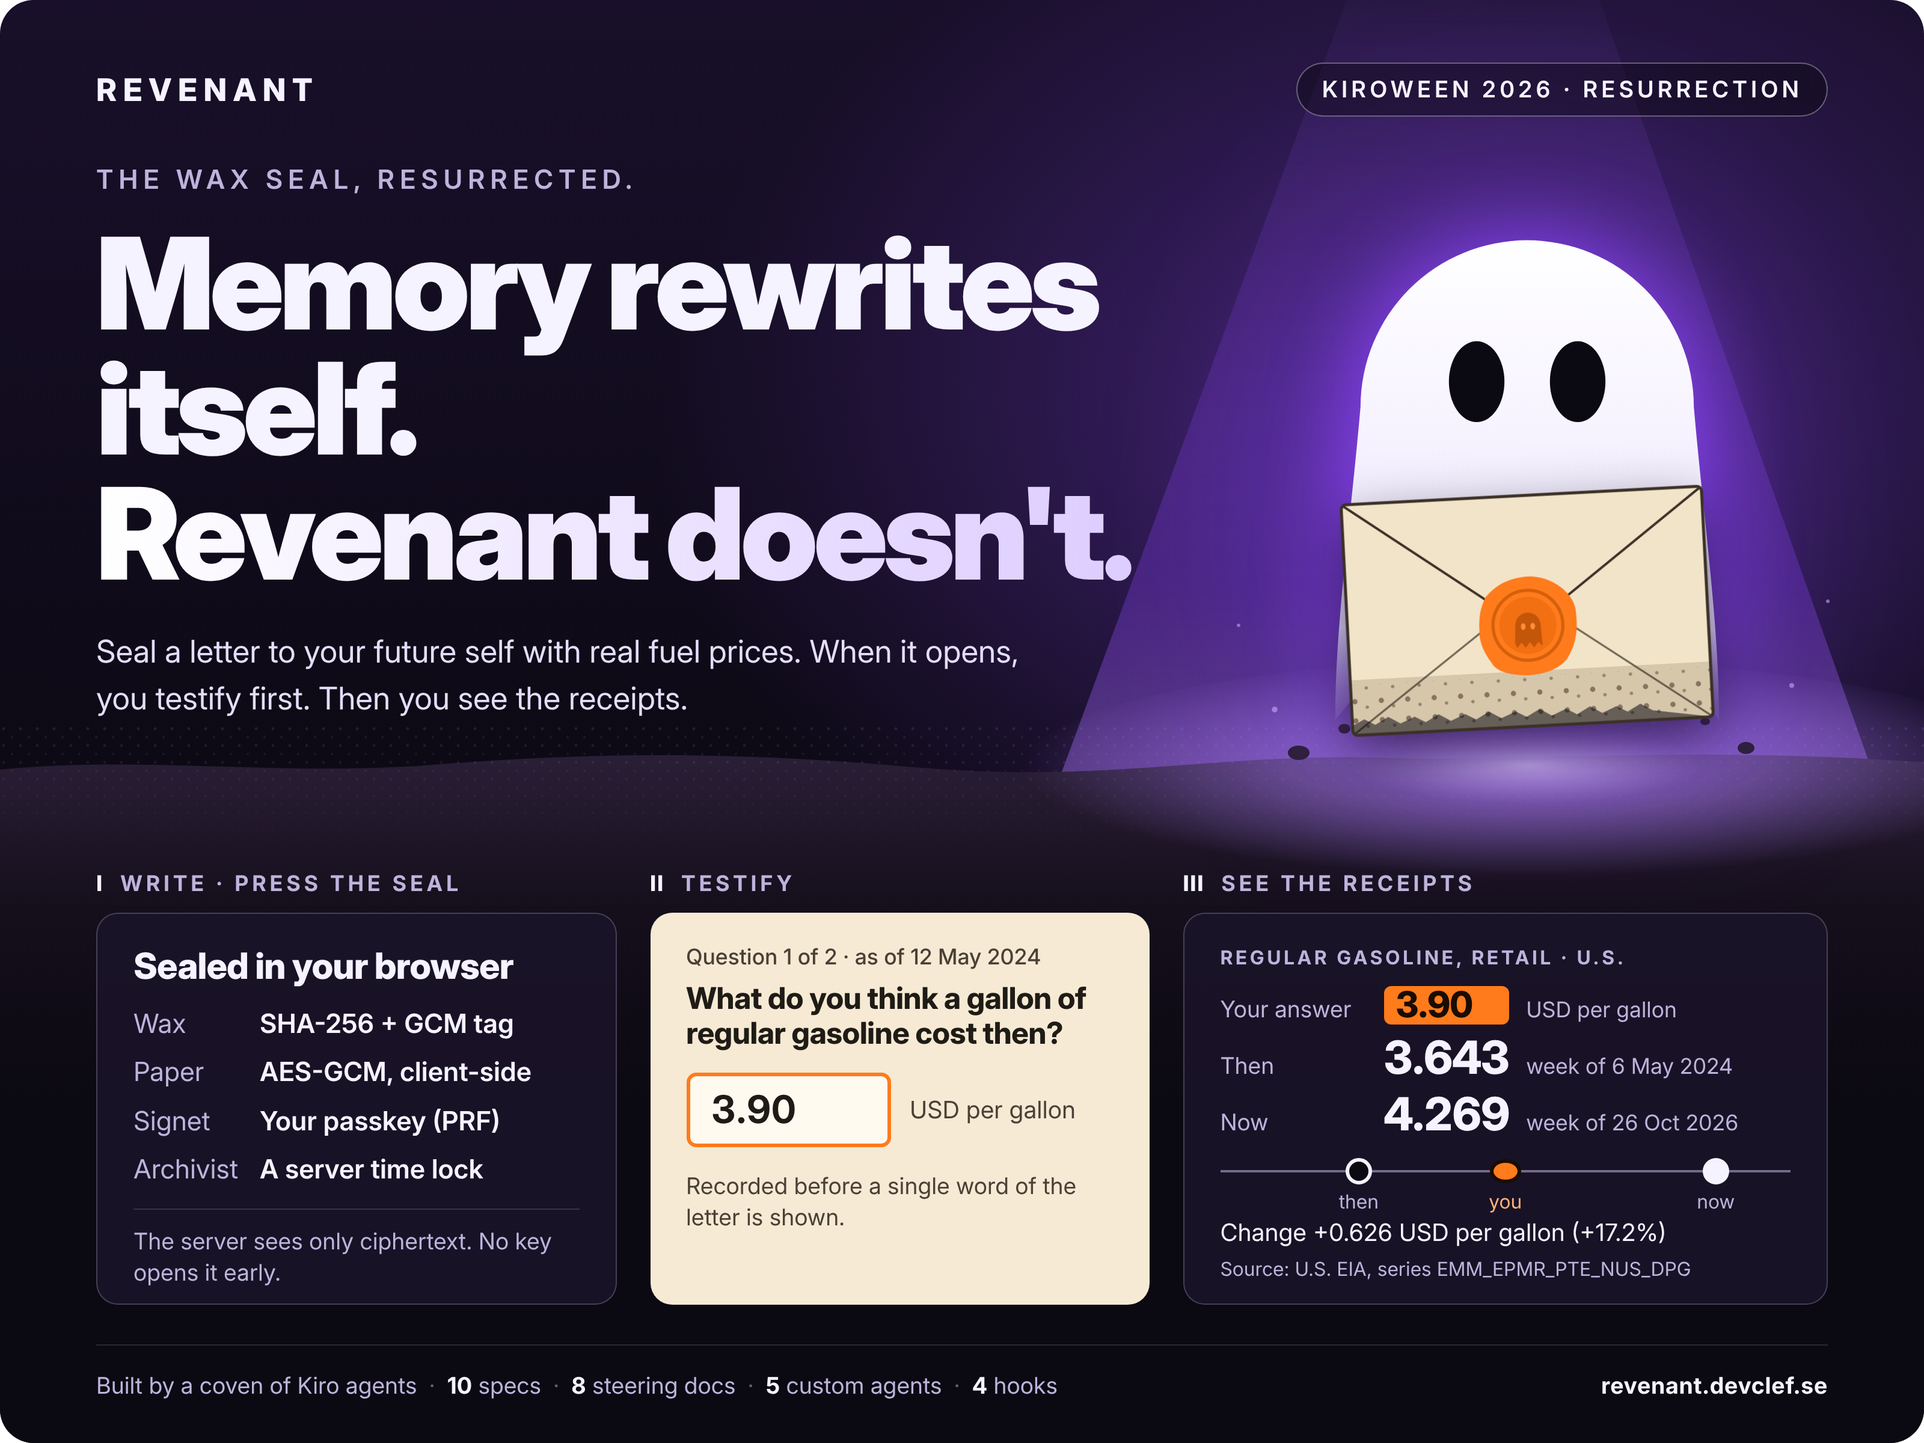
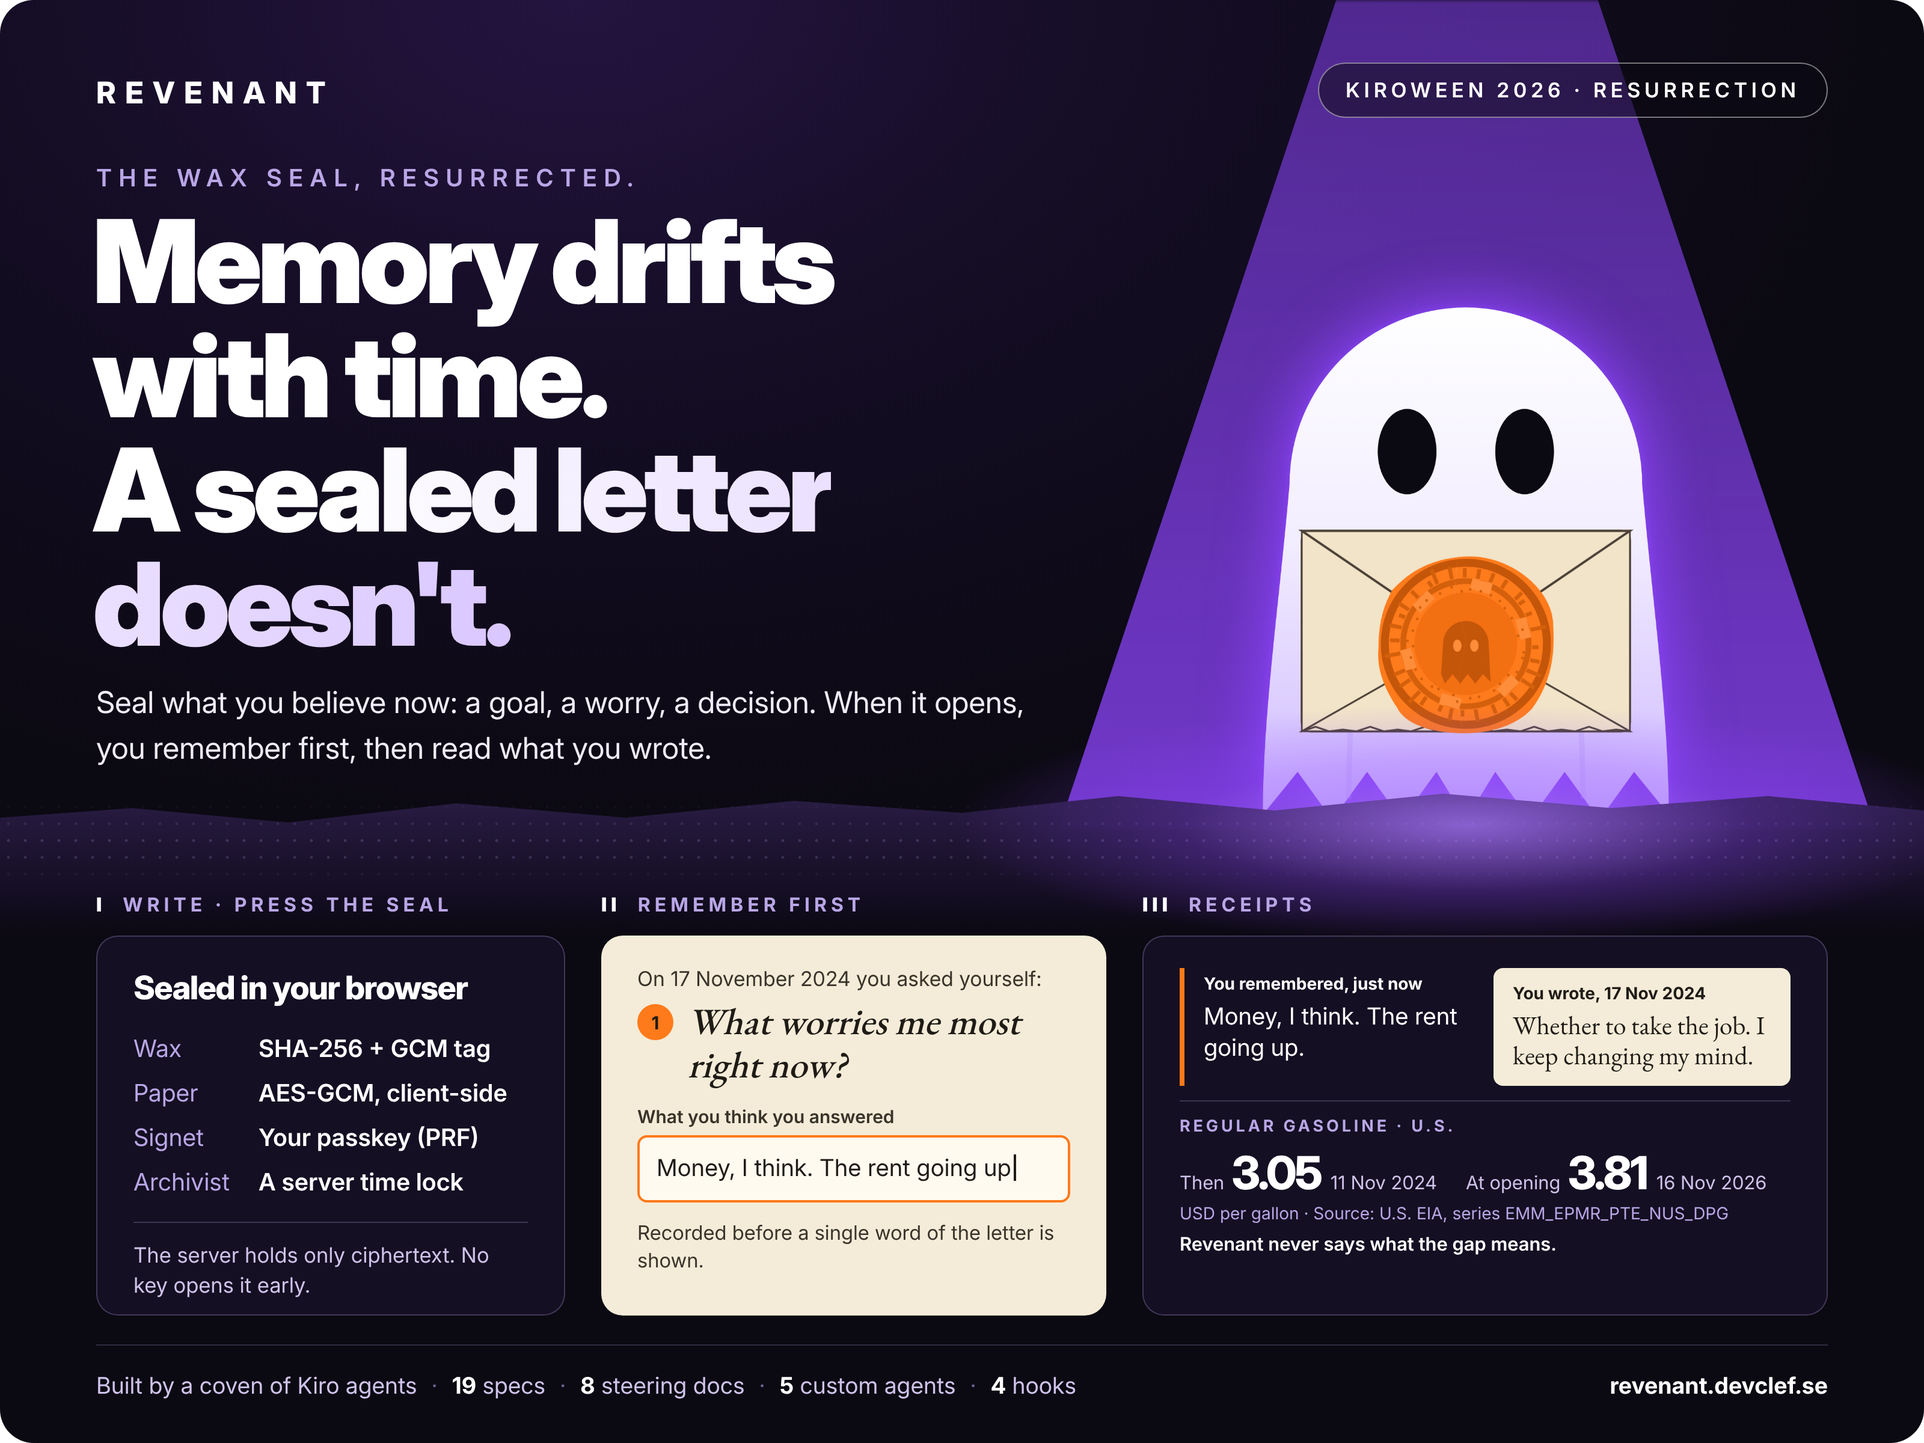
[owner] README stats, write-up owner notes, and the new one-pager image
- docs/readme-hero@2x.png: the redrawn one-pager (Remember first, persona
  dates of 17 Nov 2024, EIA gasoline 3.052 and 3.805).
- README: new alt text and caption; 19 specs, 92 property files, 349 merged PRs.
- docs/kiro-writeup.md: recount at 7065dcd and every OWNER note written from
  git, GitHub and the hook log.

diff --git a/docs/kiro-writeup.md b/docs/kiro-writeup.md
@@ -1,10 +1,8 @@
 # How Revenant was built with Kiro
 
-Every number below was counted at `main` commit `a8bd7e15f8acf8a26e0ef8668ce11a823034be5b` (20 November 2026), with the command next to it. Run `git checkout a8bd7e1` first to recompute a count. Pull request counts come from the GitHub API and include everything merged up to the moment the command runs.
+Every number below was counted at `main` commit `7065dcd388616a6b05eb22dd29e4112169b27b6c` (24 November 2026), with the command next to it. Run `git checkout 7065dcd` first to recompute a count. Pull request counts come from the GitHub API and include everything merged up to the moment the command runs.
 
-<!-- OWNER: before submission, recount at the final main SHA and replace the SHA and every number in this file. Fill in each OWNER note, using the Evidence list under it; delete a note once its text is written. -->
-
-Evidence: SHA `git rev-parse origin/main`; merged pull requests `gh pr list --state merged --limit 1000 --json number -q length` → 280 on 20 November 2026; commits by agent tag, specs, property files and agents in the sections below.
+Merged pull requests: `gh pr list --state merged --limit 2000 --json number -q length` → 349 on 24 November 2026. Of those, 271 came from a role agent's `agent/` branch (`gh pr list --state merged --limit 2000 --json headRefName -q '[.[]|select(.headRefName|startswith("agent/"))]|length'`).
 
 ## 1. Kiro surfaces
 
@@ -14,12 +12,7 @@ Revenant used three Kiro surfaces:
 - **The Kiro IDE** is where the owner wrote steering and specs, and where the IDE hooks in `.kiro/hooks/` run on save.
 - **The Kiro CLI** (`kiro-cli`) runs each role agent inside Crew's Task Runner. The agents are defined in `.kiro/agents/*.json` and installed into `~/.kiro/agents/` (see `docs/agent-loop.md`).
 
-<!-- OWNER: say in two or three sentences how the three differed in practice in this project. -->
-
-Evidence:
-- Crew loop: `ls tools/dispatcher/` and `docs/agent-loop.md`; every build PR is tagged by role (`git log --format=%s | grep -oE '^\[[a-z-]+\]' | sort | uniq -c`).
-- IDE: `ls .kiro/hooks/ .kiro/steering/ .kiro/specs/`.
-- CLI: `ls .kiro/agents/*.json` and the `kiro-cli` step in `docs/agent-loop.md`.
+In practice the IDE was the owner's desk: requirements, designs, task lists and steering were written and revised there, one spec at a time. The CLI did the typing, with no human in the session. Each run was one role agent on one issue, on `claude-haiku-5.5` for `platform-dev`, `crypto-dev` and `data-dev` and `claude-sonnet-5.5` for `frontend-dev` and `qa` (`grep '"model"' .kiro/agents/*.json`). Crew connected the two: it decided what ran next, retried failures, and handed an issue back to the owner only after three failed fix runs. Ten issues reached `status:blocked` over the whole build (`gh issue list --label status:blocked --state all --json number -q length`).
 
 ## 2. The custom agents
 
@@ -33,7 +26,7 @@ Evidence:
 | `frontend-dev` | Pages, components, styling, cards, `.ics`, recall wording, persona text. |
 | `qa` | Writes nothing in the product. Reviews each PR against its ticket and the steering docs in a headless browser and writes `.qa/verdict.json`. |
 
-Commits by agent tag (`git log --format=%s | grep -oE '^\[[a-z-]+\]' | sort | uniq -c`): frontend-dev 140, platform-dev 41, data-dev 25, crypto-dev 15, owner 14, dispatcher 1.
+Commits by agent tag (`git log --format=%s | grep -oE '^\[[a-z-]+\]' | sort | uniq -c`): frontend-dev 171, platform-dev 55, data-dev 30, crypto-dev 16, owner 16, dispatcher 1.
 
 ## 3. Hooks
 
@@ -44,16 +37,16 @@ Commits by agent tag (`git log --format=%s | grep -oE '^\[[a-z-]+\]' | sort | un
   - `agents-check-on-save`: checks the generated agents still match `.github/agents.json`.
 - **Agent stop hooks** (the `hooks.stop` entry in each `.kiro/agents/*.json`): every build agent runs `tools/hooks/scope-check.py` for its role, and `frontend-dev` also runs `tools/hooks/tone-check.mjs`, before a run can finish.
 
-<!-- OWNER: one real block, with its PR or run: the word or path that was stopped and what the agent changed. -->
+The hook log on the build machine (`~/kiro/revenant-crew/hooks.log`, not in git) covers 31 October to 24 November 2026. Leaving out the hooks' own test runs, it records 7,227 scope-check runs with 35 blocks and 2,998 tone-check runs with 5 blocks (`grep -v role=test hooks.log | grep -c 'hook=scope-check.*result=block'`, and the same for `tone-check`).
 
-Evidence:
-- Retired phrases the tone check blocks: `grep -n 'retired phrase' tools/hooks/tone-check.mjs` and the `RETIRED_PHRASES` list in that file.
-- Find a PR where a hook fired: `gh pr list --state merged --limit 1000 --search 'tone-check OR scope-check' --json number,title`, then open the PR's run log.
-- Hook log on the build machine: `hooks.log` in the agent working directory.
+Two blocks, with what the agent did next:
+
+- **A path the agent did not own.** On 1 November 2026, between 21:40 and 21:52 UTC, the scope check stopped `frontend-dev` six times. The run had written `drizzle/0001_live_letters.sql`, `src/lib/letter-store/*` and `src/lib/seal-format/live-constants.ts`, the migration, store and sealed-format code for live demo letters, which belong to `crypto-dev` and `platform-dev`. The run could not finish while those files were in its tree. The migration and the letter store landed through `crypto-dev` in [PR #139](https://github.com/devclef/Revenant/pull/139), and the change-calculator option the same run had tried to add to `src/lib/figures/change.ts` landed through `data-dev` in [PR #144](https://github.com/devclef/Revenant/pull/144).
+- **A banned word in code.** In [PR #534](https://github.com/devclef/Revenant/pull/534) the tone check flagged `src/components/copy-tone.ts`, the module that checks copy for banned words. It held those words and an exclamation mark as quoted strings, and the hook reads quoted strings as visible copy. The agent rewrote the word lists as regex literals, built the exclamation fixture in `copy-tone.test.ts` at runtime with `String.fromCharCode(33)`, and kept the checker's behaviour unchanged. The PR body records the fix.
 
 ## 4. Spec-driven development compared with vibe coding
 
-Specs 01 to 11 have no open task; specs 12 to 15 are in progress (`git ls-files .kiro/specs | cut -d/ -f3 | sort -u | wc -l` → 16 folders, two of them numbered 02). Each spec has requirements, a design and a task list. Each task became one GitHub issue and one pull request for one role.
+The repository has 19 spec folders (`git ls-files .kiro/specs | cut -d/ -f3 | sort -u | wc -l` → 19; two are numbered 02). Each spec has requirements, a design and a task list. Each task became one GitHub issue and one pull request for one role. Every task is done except three: the final walk of spec 15, and the fix-up and final walk of spec 16.
 
 | Spec | Tasks |
 |---|---|
@@ -73,17 +66,19 @@ Specs 01 to 11 have no open task; specs 12 to 15 are in progress (`git ls-files 
 | 13 The seal | 23 |
 | 14 Write desk | 20 |
 | 15 The flow | 16 |
+| 16 Remember first | 17 |
+| 17 Screen layout fixes | 16 |
+| 18 Persona dates | 17 |
 
 Command: `for d in .kiro/specs/*/; do echo "$d $(grep -cE '^- \[[ x]\] [0-9]+\.' $d/tasks.md)"; done`.
 
-Merged pull requests: `gh pr list --state merged --limit 1000 --json number -q length` → 280 on 20 November 2026.
+What the spec loop gave that vibe coding would not:
 
-<!-- OWNER: what the spec loop gave that vibe coding would not have, and where you still vibe-coded. -->
+- **Traceability.** Every change to the product can be followed from a requirement to a task, an issue and a pull request. For example `.kiro/specs/11-any-letter/tasks.md` task 22 → issue [#356](https://github.com/devclef/Revenant/issues/356) → [PR #380](https://github.com/devclef/Revenant/pull/380).
+- **Work an unattended agent could do.** A task carries its scope, its out-of-scope list and its acceptance criteria, so a CLI run with no human in it could finish it and QA could check it against the same text. Issue [#212](https://github.com/devclef/Revenant/issues/212) is a typical ticket: one file in scope, the drawing code out of scope, three checkable criteria.
+- **A place to correct course.** When production showed a gap, the fix went into a spec first, then into tickets. Spec 09 opens with the figures failure in section 9 below (`.kiro/specs/09-demo-polish/requirements.md`, F1), and spec 11 rewrote the product from fuel-price letters to letters about any part of life (`.kiro/specs/11-any-letter/requirements.md`, X1).
 
-Evidence:
-- Spec to issue to PR: `.kiro/specs/11-any-letter/tasks.md` task 22 → issue #356 → PR #380 (`gh pr view 380`).
-- A spec that was rewritten after production showed a gap: spec 09 (`.kiro/specs/09-demo-polish/requirements.md`, F1) and spec 11 (`.kiro/specs/11-any-letter/requirements.md`, X1).
-- Work outside a spec: `git log --format='%h %s' | grep -v -E '\(#[0-9]+\)$'` lists commits that did not come through a ticket PR.
+Where it was still vibe coding: the loop itself. Of 661 non-merge commits, 85 did not come through a ticket pull request (`git log --no-merges --format='%h %s' | grep -v -E '\(#[0-9]+\)$' | grep -vc 'Tick completed'`). They are mostly the owner's direct work on the dispatcher, the QA prompt, CI, agent prompts and steering, changed as problems showed up, for example `1b5f997` (one Task Runner run at a time) and `12a64b3` (an unfinished browser walk is a minor finding). The dispatcher and the build loop had no spec.
 
 ## 5. Steering
 
@@ -95,30 +90,22 @@ The `qa` and `frontend-dev` agents use the Playwright MCP server (`mcpServers.pl
 
 ## 7. Property-based testing
 
-The tests use fast-check. `git ls-files '*.property.test.*' | wc -l` → 72 property test files, covering the source adapters, the then-vs-now change, the sealed payload round trip, the opening state machine, the persona letter checks and the ceremony gates.
+The tests use fast-check. `git ls-files '*.property.test.*' | wc -l` → 92 property test files, covering the source adapters, the then-vs-now change, the sealed payload round trip, the opening state machine, the persona letter checks and the ceremony gates. Each is tagged `// Feature: <spec>, Property N: <title>`.
 
-<!-- OWNER: list concrete bugs a property caught that example tests missed, each with its PR or commit. Candidates to check: `git log --format='%h %s' -i --grep=property`. -->
+A bug a property caught that the example tests missed:
 
-Evidence:
-- The property files: `git ls-files '*.property.test.*'`; the tag on each is `// Feature: <spec>, Property N: <title>`.
-- Candidate commits to read for a caught bug: `git log --format='%h %s' -i -E --grep='counterexample|fast-check|shrunk'`, including `6b05a9c` (E1, #331) and `914b15b` (the then/now helper, #56). Confirm each one caught a bug before citing it.
-- Re-run one: `npx vitest run src/lib/figures/then-now.property.test.ts`.
+- **A clod drawn above the dust ceiling** (`6b05a9c`, [PR #331](https://github.com/devclef/Revenant/pull/331)). The property "never draws dust or clods above the ceiling, for any Top_Bar, headline and translateY" in `soil-canvas.test.ts` failed on some random seeds. `clodPoint` returned the launch point unchanged at `tauS = 0`, because its step loop does not run. When the headline sits below the soil top, the launch point is above the ceiling, so the clod was drawn above it for that frame. The fix starts the clod at `max(launch y, ceiling)`.
+
+The same property flaked once before for a reason that was not a bug: issue [#212](https://github.com/devclef/Revenant/issues/212) found a dust point at y 331.2 against a ceiling of 331.20000000000005, and `59ec3be` ([PR #216](https://github.com/devclef/Revenant/pull/216)) loosened the assertion by 1e-9. Telling the two apart took reading the counterexample, and the second failure was real.
+
+Re-run one: `npx vitest run src/components/ceremony/scene/soil-canvas.test.ts`.
 
 ## 8. Kiro powers
 
-<!-- OWNER: say plainly whether Kiro powers were used, and why or why not (E1.3). -->
-
-Evidence:
-- The repository has no powers directory and no power is named in the agent files: `ls .kiro/` → `agents hooks settings specs steering`.
-- Check the IDE on the owner's machine for installed powers before writing either answer.
+Kiro powers were not used. No power is installed on the build machine (`~/.kiro/powers/installed.json` lists `"installedPowers": []`), the repository has no powers directory (`ls .kiro/` → `agents hooks settings specs steering`), and no agent file names one. What powers would package, rules plus tools for one domain, the project already had in steering with `fileMatch` inclusion (`crypto.md`, `deploy.md`) and in the Playwright MCP server named in the agent files.
 
 ## 9. What went wrong once
 
 Spec 09 opened with a production failure (spec 09 requirements, F1): no persona reveal showed a now figure, because `GET /api/figures` returned `figure: null` for all four series in database mode. QA had passed every PR, because QA ran the app locally with the figures API in file mode and nothing checked production. Spec 09 added the Journey_Check (`.github/workflows/journey-check.yml`, `tools/qa/journey-check.mjs`), which opens the judge's pages on production every six hours and opens an issue when a check fails, and committed the spec 08 Freshness_Check.
 
-<!-- OWNER: link the first Journey_Check run and the issue it opened. -->
-
-Evidence:
-- First failed run: [run 42530503661](https://github.com/devclef/Revenant/actions/runs/42530503661), 8 November 2026 (`gh run list --workflow journey-check.yml --limit 100 --json databaseId,createdAt,conclusion`).
-- The issue it opened: [#318](https://github.com/devclef/Revenant/issues/318) (`gh issue list --label journey:failure --state all`).
-- Spec 09's account of the failure: `.kiro/specs/09-demo-polish/requirements.md`, F1.
+The first Journey_Check run failed: [run 42530503661](https://github.com/devclef/Revenant/actions/runs/42530503661), 8 November 2026 at 22:29 UTC. It opened issue [#318](https://github.com/devclef/Revenant/issues/318), "Journey check: failure", now closed. Commands: `gh run list --workflow journey-check.yml --limit 100 --json databaseId,createdAt,conclusion` and `gh issue list --label journey:failure --state all`.

diff --git a/README.md b/README.md
@@ -9,9 +9,8 @@ A wax seal did two jobs: it showed whose letter it was, and whether anyone broke
 **Kiroween 2026 · Resurrection**
 
 <p align="center">
-  <img src="docs/readme-hero2x.png" alt="Revenant concept one-pager: the ghost holding the sealed envelope, then the three steps Write and press the seal, Testify, See the receipts" width="800">
-  <br><em>The concept one-pager. The fuel figures are real EIA records; the counts in its footer are out of date.</em>
-  <br><em>This picture shows the earlier persona letters, written as of an earlier date.</em>
+  <img src="docs/readme-hero@2x.png" alt="Revenant one-pager: the ghost holding the sealed envelope under a shaft of purple light, then the three steps Write and press the seal, Remember first, and Receipts, with U.S. regular gasoline at 3.05 USD per gallon in the week of 11 Nov 2024 and 3.81 in the week of 16 Nov 2026" width="800">
+  <br><em>The one-pager. The gasoline figures are real U.S. EIA records (series EMM_EPMR_PTE_NUS_DPG, weeks of 11 Nov 2024 and 16 Nov 2026, USD per gallon). The question and the two answers are an example, not a sealed letter.</em>
 </p>
 
 Since 1735 the French Académie des sciences has kept *plis cachetés*, sealed envelopes that prove what someone knew, and when. Even Pasteur used them.
@@ -74,12 +73,12 @@ Real letters at `/seal` are built but switched off for judging. Opening needs th
 I wrote the steering, the specs and the dispatcher. A crew of Kiro agents wrote the product; almost none of the code was typed by a human. The detail is in [docs/kiro-writeup.md](docs/kiro-writeup.md).
 
 - **Steering:** 8 docs of non-negotiables (data integrity, neutrality, tone, crypto and more). Crypto rules load only for crypto code.
-- **Specs:** 16 spec folders. One task is one GitHub issue and one pull request.
+- **Specs:** 19 spec folders. One task is one GitHub issue and one pull request.
 - **Custom agents:** `platform-dev`, `crypto-dev`, `data-dev`, `frontend-dev`, each fenced to its own paths, and a `qa` agent that reviews every PR in a headless browser.
 - **Hooks:** a tone check on copy, a path-scope check per agent, crypto tests on save and a ceremony-truth check.
 - **MCP:** Playwright MCP lets `qa` and `frontend-dev` click through each build and cite screenshots.
-- **Property-based testing:** 72 fast-check property test files cover the adapters, the change formula and the sealed format.
-- **Kiro Crew** runs the build loop: claim an issue, build, open a PR, CI, QA, merge or retry. After three failed fixes it asks me. 280 pull requests merged so far.
+- **Property-based testing:** 92 fast-check property test files cover the adapters, the change formula and the sealed format.
+- **Kiro Crew** runs the build loop: claim an issue, build, open a PR, CI, QA, merge or retry. After three failed fixes it asks me. 349 pull requests merged so far.
 
 ```mermaid
 flowchart TB
